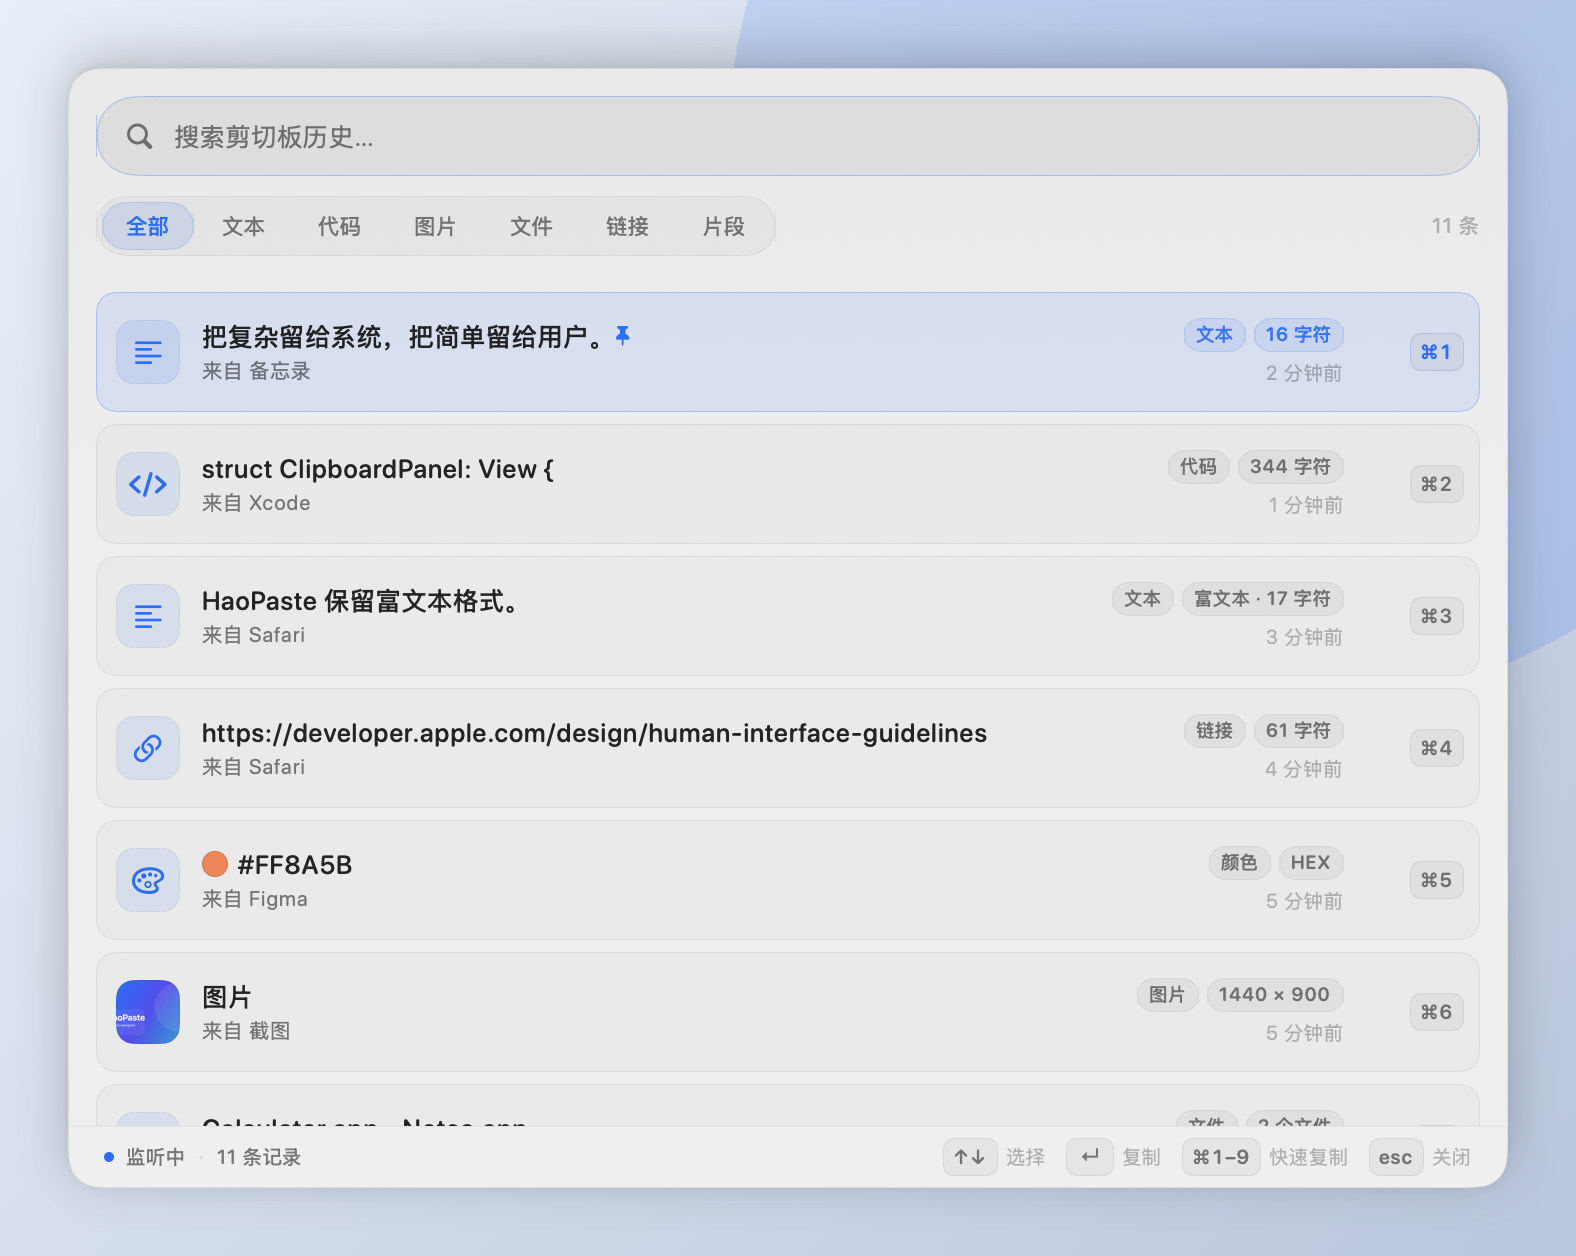
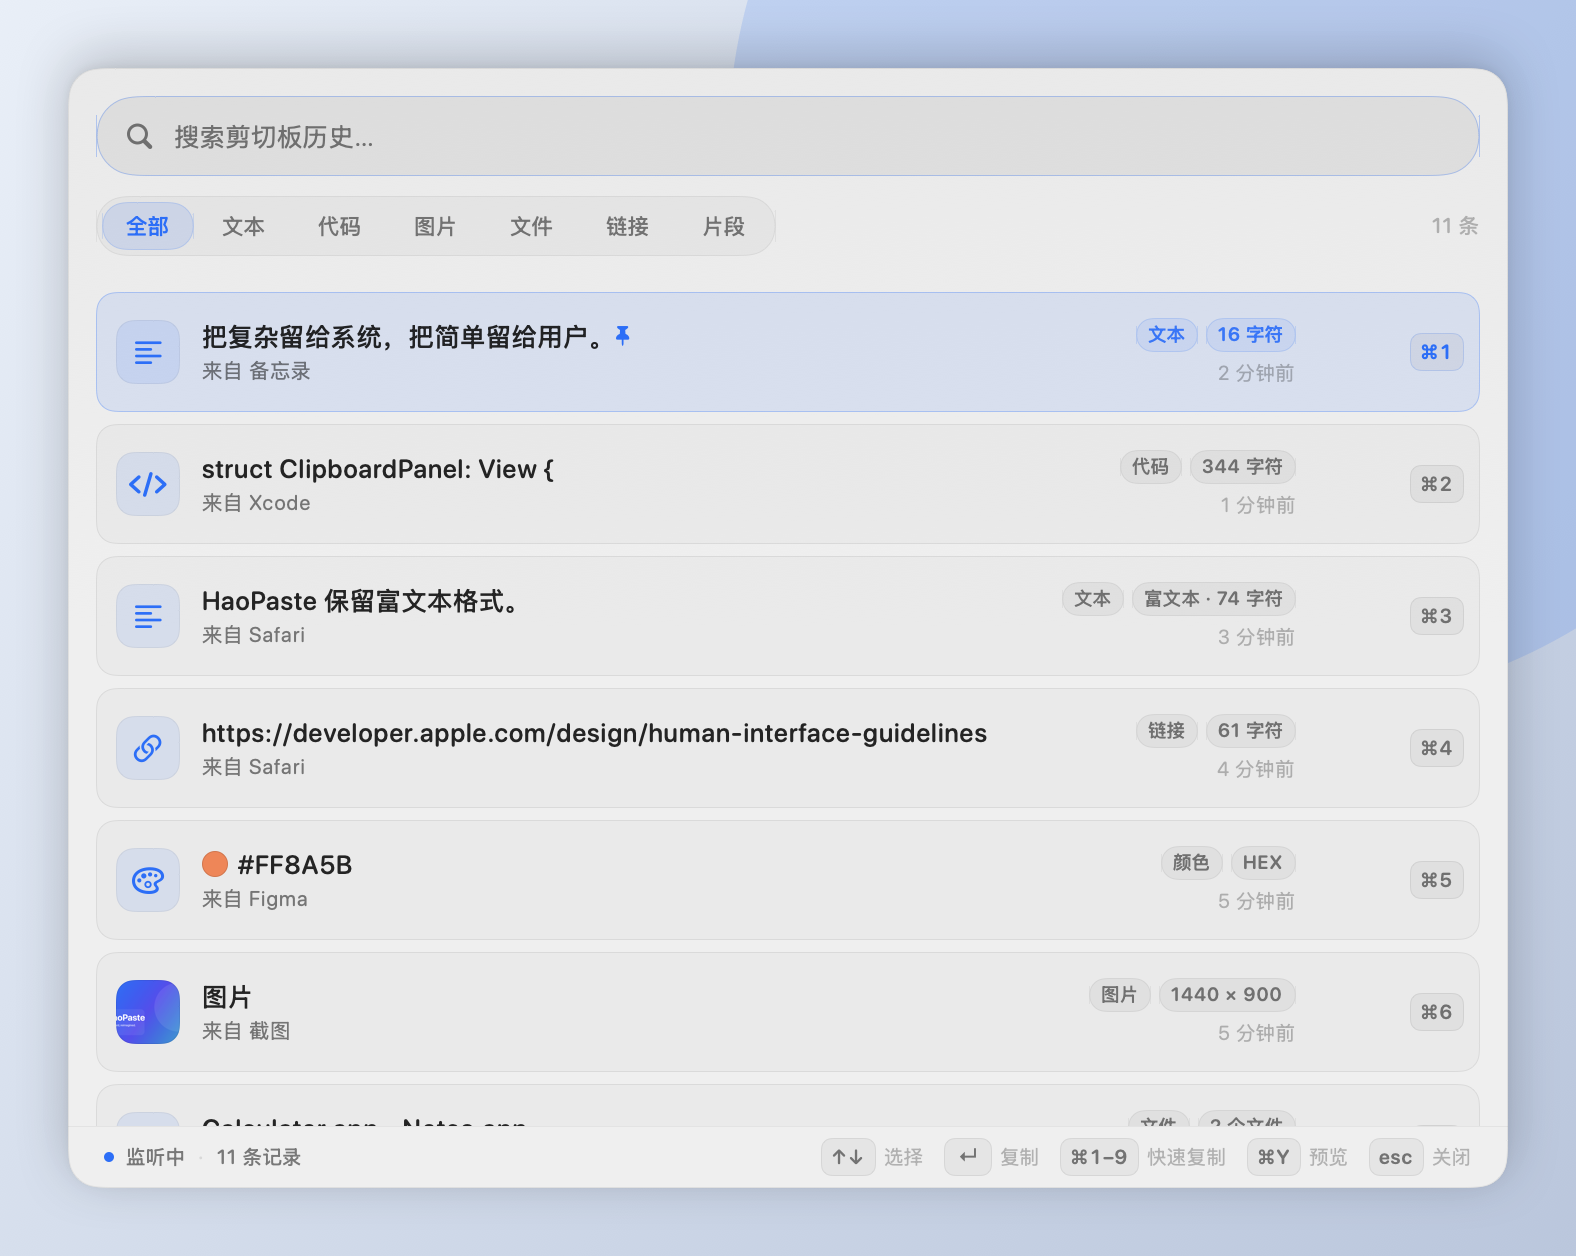
docs: document v0.4.0 preview and drag
- Update README, user guide, architecture, development and roadmap\n- Refresh panel screenshots and add image / rich-text preview screenshots

diff --git a/Docs/ARCHITECTURE.md b/Docs/ARCHITECTURE.md
@@ -95,6 +95,9 @@ ContentView / ItemRowView / SnippetRowView (SwiftUI)
 | `ContentClassifier.swift` | 文本、URL、HEX、JSON、代码的启发式分类 |
 | `ContentHasher.swift` | 加类型盐的 SHA-256 去重指纹 |
 | `ImageProcessor.swift` | 解码、PNG 归一化、获取像素尺寸、生成最大 560px 缩略图 |
+| `ItemPreview.swift` | 预览文本构建：RTF / HTML 归一化、字体大小收敛、12 万字符上限 |
+| `ItemDragProvider.swift` | 为文本 / 图片 / 单文件构建 `NSItemProvider`，附带 RTF / HTML 数据 |
+| `ImageSavePanel.swift`（Utilities） | 共享的 PNG 另存为流程与错误提示 |
 | 富文本 | `RichTextPayload` + `RichText/<id>.json`（RTF / HTML 原始数据） |
 
 ### UI / State
@@ -102,11 +105,12 @@ ContentView / ItemRowView / SnippetRowView (SwiftUI)
 | 文件 | 职责 |
 | --- | --- |
 | `ContentView.swift` | 面板布局：搜索栏、分类、数量、列表、页脚 |
-| `ItemRowView.swift` | 条目卡片：图标 / 缩略图、预览、徽章、来源、时间、快捷复制、悬停操作 |
+| `ItemRowView.swift` | 条目卡片：图标 / 缩略图、徽章、来源、时间、快捷复制、悬停预览 / 置顶 / 删除、拖拽 |
+| `PreviewOverlayView.swift` | 预览卡片：图片棋盘格、全文 / 富文本、颜色色块、文件列表、拖拽与动作 |
 | `FilterTabsView.swift` | 胶囊分类按钮与 matched geometry 滑动选中态 |
 | `EmptyStateView.swift` | 空历史 / 无搜索结果状态 |
 | `PanelFooterView.swift` | 监听状态与键盘提示 |
-| `PanelViewState.swift` | 搜索、分类、选中项、焦点触发器 |
+| `PanelViewState.swift` | 搜索、分类、选中项、预览状态、焦点触发器 |
 | `HotKeyConfiguration.swift` | Carbon 键码 / 修饰符、显示文案与校验 |
 | `Snippet.swift` | 可复用文本片段模型 |
 | `SnippetRowView.swift` | 面板片段列表行 |
@@ -201,18 +205,29 @@ struct ClipboardItem: Identifiable, Codable, Hashable {
 
 ### 6.6 快捷动作
 
-- 行内右键菜单按类型提供动作：URL 打开 / 复制 Markdown、文件打开 / Finder 定位、图片保存、颜色复制 HEX / RGB / HSL。
+- 行内右键菜单按类型提供动作：预览、URL 打开 / 复制 Markdown、文件打开 / Finder 定位、图片保存、颜色复制 HEX / RGB / HSL。
 - 动作写回剪贴板时复用 `ClipboardManager.copyTextToPasteboard`，会同步 `changeCount`，不会产生额外的历史条目。
 - 文件 / URL 直接交给 `NSWorkspace` 打开；图片保存使用 `NSSavePanel` 写出原始 PNG。
 
-### 6.7 键盘事件
+### 6.7 预览与拖拽
+
+- 预览状态保存在 `PanelViewState.previewingItemID`，`ContentView` 将其解析为当前可见条目并叠加 `PreviewOverlayView`。
+- `⌘Y`、悬停眼睛按钮、右键「预览」都能打开；预览中 `↑` `↓` 在可见条目间切换，`↵` 复制并关闭，`esc` 返回列表。
+- 图片预览读取原始 PNG，用棋盘格展示透明区域；文本预览优先解析 RTF，其次 HTML，最终回退纯文本。
+- 富文本在显示前会统一前景色、移除背景色，并把字号限制在 10–20pt，避免网页粘贴内容在深色模式下不可读。
+- 超过 12 万字符的文本只渲染前缀并提示，复制仍使用完整内容。
+- 列表行通过 `.onDrag` 提供 `NSItemProvider`：文本附带纯文本 / RTF / HTML，图片附带 PNG 数据与文件 URL，单文件条目附带文件 URL。
+- 预览中的图片和文件行也可拖拽；多文件条目暂不支持整体拖拽。
+
+### 6.8 键盘事件
 
 `PanelController` 使用 `NSEvent.addLocalMonitorForEvents(matching: .keyDown)` 在面板为 key window 时处理：
 
 - 方向键：更新 `PanelViewState.selectedID`；
 - 回车：复制选中项并关闭；
-- `⌘P` / `⌘⌫` / `⌘W` / `⌘1–9`；
-- `esc`：清空搜索或关闭。
+- `⌘P` / `⌘Y` / `⌘⌫` / `⌘W` / `⌘1–9`；
+- `esc`：清空搜索；预览中关闭预览；否则关闭面板。
+- 预览打开时，方向键切换预览条目，回车 / `⌘C` 复制并关闭，其他命令快捷键被忽略。
 
 其余按键原样交还 AppKit / 输入法，因此搜索框和中文输入法保持正常工作。
 
@@ -243,7 +258,8 @@ struct ClipboardItem: Identifiable, Codable, Hashable {
 - 轮询使用 `Task.sleep(350ms)`，并持有 `ProcessInfo` 活动令牌以避免 App Nap 降低监听及时性。
 - 历史写盘防抖 400ms，避免快速复制导致频繁 I/O。
 - 列表使用 `LazyVStack`，仅渲染视口附近卡片。
-- 图片列表只加载 560px 缩略图，原图只在复制时读取。
+- 图片列表只加载 560px 缩略图，原图只在复制或预览时读取。
+- 富文本预览按需读取缓存 JSON；拖拽 Provider 也延迟到拖拽开始时构建，不增加列表渲染开销。
 - 去重哈希在采集线程（主线程）执行；对常规文本 / 图片足够快，超大内容可后续迁移到后台任务。
 - 搜索在当前 200 条规模内同步执行；只对含 CJK 的内容按需做拼音转换，结果按相关性排序，无持久化索引。
 - 当前默认上限为 200 条未置顶 + 任意置顶项，可在设置中调整为 100 / 200 / 500 / 1000；排序与搜索为 O(n log n) 级别，规模可控。
@@ -265,7 +281,7 @@ struct ClipboardItem: Identifiable, Codable, Hashable {
 
 ### 自动化测试
 
-49 个 XCTest 由 app target 作为测试宿主运行：
+54 个 XCTest 由 app target 作为测试宿主运行：
 
 - 内容分类器边界：URL、HEX、JSON、代码、SQL、普通文本。
 - `HotKeyConfiguration`：校验、修饰符转换、显示顺序。
@@ -281,7 +297,8 @@ struct ClipboardItem: Identifiable, Codable, Hashable {
 - 拼音 / 模糊搜索命中与相关性排序。
 - Snippets CRUD、持久化、过滤、面板选中与备份合并。
 - 富文本 RTF/HTML 缓存、回写与备份迁移。
-- `HexColor` 解析与 RGB / HSL 输出；动作文本复制。
+- 预览状态生命周期、超长文本截断、富文本格式保留与颜色归一化。
+- 文本 / 富文本 / 图片拖拽 Provider 的类型与数据内容。
 
 运行：`make test`。CI：`.github/workflows/ci.yml`，执行测试并构建 Release。
 

diff --git a/Docs/DEVELOPMENT.md b/Docs/DEVELOPMENT.md
@@ -51,13 +51,14 @@ Release 构建输出：
 | 参数 / 环境变量 | 用途 |
 | --- | --- |
 | `--show` | 启动后直接显示面板 |
-| `--demo` | Debug 构建注入 9 条示例数据（空历史时） |
+| `--demo` | Debug 构建注入 11 条示例数据（空历史时） |
 | `--storage <path>` | 指定历史 / 图片存储目录 |
 | `HAOPASTE_STORAGE_DIR=<path>` | 环境变量形式的存储覆盖 |
 | `--render <path>` | Debug：离屏渲染面板 PNG 后退出 |
 | `--render-settings <path>` | Debug：离屏渲染设置窗口 PNG 后退出 |
 | `HAOPASTE_RENDER_APPEARANCE=dark` | Debug 离屏渲染时使用深色外观 |
 | `HAOPASTE_RENDER_SETTINGS_TAB=general\|history\|snippets\|privacy\|about` | Debug 设置渲染的标签页 |
+| `HAOPASTE_RENDER_PREVIEW=image\|text` | Debug 渲染预览界面（图片或富文本） |
 | `--show-settings` | Debug：启动后直接打开设置窗口 |
 | `--export-history <path>` | Debug：将指定 storage 的历史导出为 zip 后退出 |
 | `--import-history <path>` | Debug：将 zip 合并导入指定 storage 后退出 |
@@ -126,8 +127,8 @@ make dmg
 输出：
 
 ```text
-dist/HaoPaste-0.3.4.dmg                 # 安装包（app + Applications 快捷方式）
-dist/HaoPaste-0.3.4.dmg.sha256          # SHA-256 校验
+dist/HaoPaste-0.4.0.dmg                 # 安装包（app + Applications 快捷方式）
+dist/HaoPaste-0.4.0.dmg.sha256          # SHA-256 校验
 ```
 
 > `dist/` 只保留 DMG，不再额外放一份 `.app`，避免 Spotlight / Launch Services 中出现多个 HaoPaste 副本。可运行的 Release 产物位于 `.build/release/Build/Products/Release/HaoPaste.app`。
@@ -174,11 +175,11 @@ codesign --force --deep --options runtime --timestamp \
 5. 提交 Apple Notary Service 并 stapling：
 
 ```bash
-xcrun notarytool submit "dist/HaoPaste-0.3.4.dmg" \
+xcrun notarytool submit "dist/HaoPaste-0.4.0.dmg" \
   --keychain-profile "haopaste-notary" --wait
 
-xcrun stapler staple "dist/HaoPaste-0.3.4.dmg"
-xcrun stapler validate "dist/HaoPaste-0.3.4.dmg"
+xcrun stapler staple "dist/HaoPaste-0.4.0.dmg"
+xcrun stapler validate "dist/HaoPaste-0.4.0.dmg"
 ```
 
 也可以对 `.app` 先公证再打包（Apple 推荐流程根据分发方式调整）。需要 Apple Developer Program 账号。
@@ -188,8 +189,8 @@ xcrun stapler validate "dist/HaoPaste-0.3.4.dmg"
 版本号位于 `project.yml`：
 
 ```yaml
-MARKETING_VERSION: "0.3.4"
-CURRENT_PROJECT_VERSION: "9"
+MARKETING_VERSION: "0.4.0"
+CURRENT_PROJECT_VERSION: "10"
 ```
 
 修改后运行 `make project` 再构建。发布前检查：
@@ -241,7 +242,7 @@ xcodebuild \
   test
 ```
 
-当前 49 个测试覆盖：
+当前 54 个测试覆盖：
 
 - 内容分类器：URL / HEX / JSON / 代码 / SQL / 普通文本边界。
 - `HotKeyConfiguration`：默认值、修饰符、显示顺序、校验。
@@ -250,6 +251,8 @@ xcodebuild \
 - `ClipboardStore`：文本 / 图片资产往返、缺失图片过滤。
 - `ClipboardManager`：FIFO 裁剪、置顶保护、清空逻辑。
 - `HistoryArchiveService`：导出 → 空库导入 → 重复导入去重、无效归档报错。
+- 预览：状态生命周期、超长文本截断、富文本格式保留与颜色归一化。
+- 拖拽：文本 / RTF / 图片 Provider 的类型注册与数据内容。
 
 测试宿主使用的是真实 app target，但 `AppDelegate` 会检测 XCTest 环境并跳过菜单栏、轮询和全局快捷键初始化。CI 工作流位于 `.github/workflows/ci.yml`，会运行测试并额外执行一次 Release 构建。
 

diff --git a/Docs/README.md b/Docs/README.md
@@ -11,13 +11,14 @@
 
 ## 当前版本
 
-- 版本：`0.3.4`
+- 版本：`0.4.0`
 - 运行要求：macOS 14+
 - 构建环境：Xcode 15+，本项目在 Xcode 26.5 / macOS 26.5 上验证
 - 分发形态：菜单栏驻留应用，Release `.app` + DMG
 - 设置：原生设置窗口，支持自定义快捷键、登录启动、历史上限、按应用排除、备份迁移与清理
 - 内容格式：文本、富文本 RTF/HTML、URL、代码/JSON、HEX、图片、单文件 / 多文件引用
+- 预览与导出：`⌘Y` 快速预览图片 / 全文 / 颜色 / 文件，支持拖拽到其他应用
 - 搜索：中文、拼音全拼 / 首字母缩写、模糊匹配、相关性排序
 - Snippets：常用文本片段，面板快速复制，随备份导出
 - 运行时依赖：无第三方库
-- 质量：49 个 XCTest + GitHub Actions CI
+- 质量：54 个 XCTest + GitHub Actions CI
